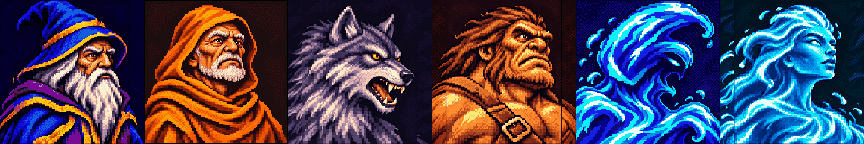
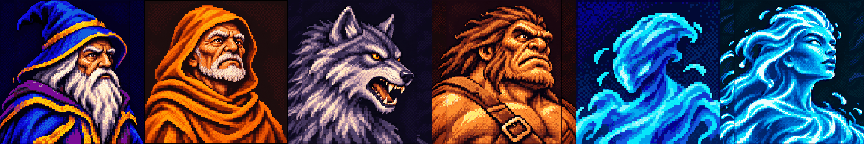
Display lake spirit at native 60x72 and match portrait to sprite

Changed region(s): [[0.6562, 0.0, 0.8438, 1.0]]

diff --git a/homm2-graphics.js b/homm2-graphics.js
@@ -20,7 +20,7 @@
   const fieldSizes = {
     wolf: [90, 108, [36, 3, 4, 3]], 'hill-giant': [90, 108, [4, 2, 4, 2]],
     wizard: [72, 86, [4, 7, 4, 7]], monk: [72, 86, [6, 9, 4, 9]],
-    'lake-spirit': [72, 86, [4, 3, 4, 2]], nymph: [72, 86, [4, 3, 4, 2]]
+    'lake-spirit': [60, 72, [4, 3, 4, 2]], nymph: [72, 86, [4, 3, 4, 2]]
   };
   const createSvg = window.createCreatureSvg;
   window.createCreatureSvg = function(kind) {

diff --git a/GRAPHICS.md b/GRAPHICS.md
@@ -48,7 +48,7 @@
 - `terrain-renderer.js` и `assets/map-editor/terrain/` — те же атласы, 47 масок
   границ и порядок слоёв, что в MapEditor: трава → грязь → болото → песок → вода.
 - `assets/map-editor/mobs/` — исходники 60×72 из редактора. На поле волк и
-  великан отображаются в 90×108, маг, монах, дух озера и нимфа — в 72×86, с привязкой к низу
+  великан отображаются в 90×108, маг, монах и нимфа — в 72×86, дух озера — в 60×72, с привязкой к низу
   и центру клетки. На краях поля спрайты обрезаются без смещения.
 - `init.js` использует `maps/MAP 1.js` — JS-копию `maps/MAP 1.json` для запуска
   без сервера. Кнопка папки слева вверху позволяет начать новый бой на другой
@@ -57,7 +57,7 @@
   Портреты подготовлены в 144×144 в пиксельной стилистике DOS/VGA: монах в
   капюшоне, нимфа с женственными чертами, дух озера — водяной элементаль
   с гребнем волны, как на иконке призыва. Полевой спрайт духа соответствует
-  его портрету и сохранён в 60×72 с отображением 72×86. Иконки — в 64×64. Старые полевые спрайты
+  его портрету и сохранён и отображается в 60×72. Иконки — в 64×64. Старые полевые спрайты
   и фоны травы/песка/воды удалены: вместо них используются ресурсы MapEditor.
 - `assets/homm2/sources/` — исходные сгенерированные иллюстрации:
   портреты (шесть квадратов 144×144 в одном ряду), материал кожи и иконки. Неиспользуемые лист существ и трава удалены. `spell-icons-base.png` хранит исходный одобренный лист,

diff --git a/maps/README.md b/maps/README.md
@@ -40,7 +40,7 @@
 Дух озера (`lake-spirit`), поставленный в редакторе, — обычный враг с ИИ,
 без владельца и срока призыва. Дух, созданный заклинанием в бою, получает
 `isSummon`, владельца и срок жизни, становится управляемым союзником.
-Оба используют один спрайт с отображением 72×86. Кнопка сетки справа от
+Оба используют один спрайт с отображением 60×72. Кнопка сетки справа от
 загрузки карты включает чёрные линии толщиной 2 px; выбор сохраняется
 при загрузке новой карты.
 
